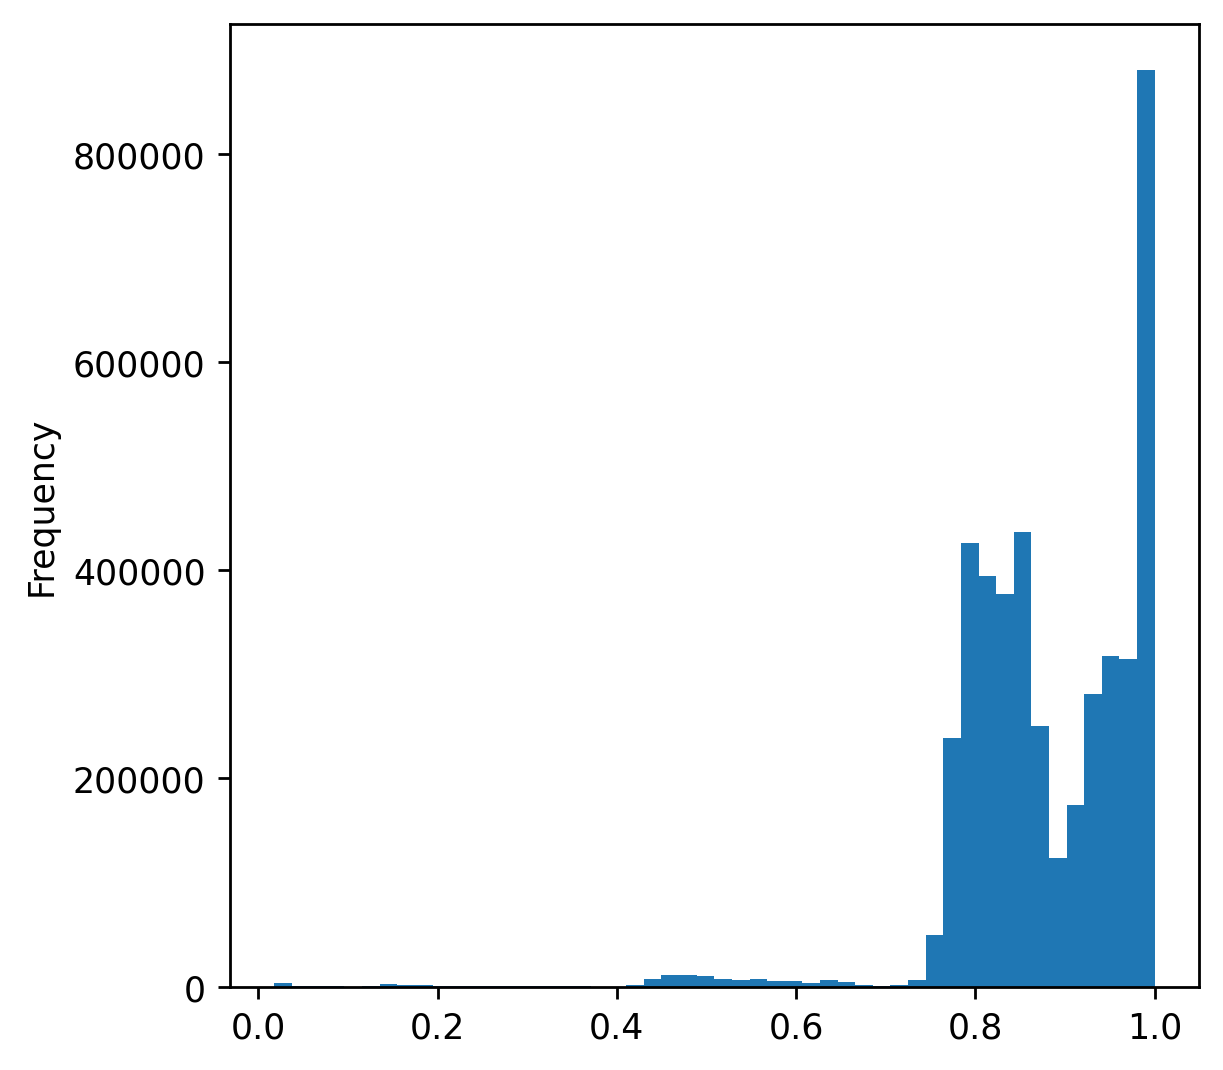
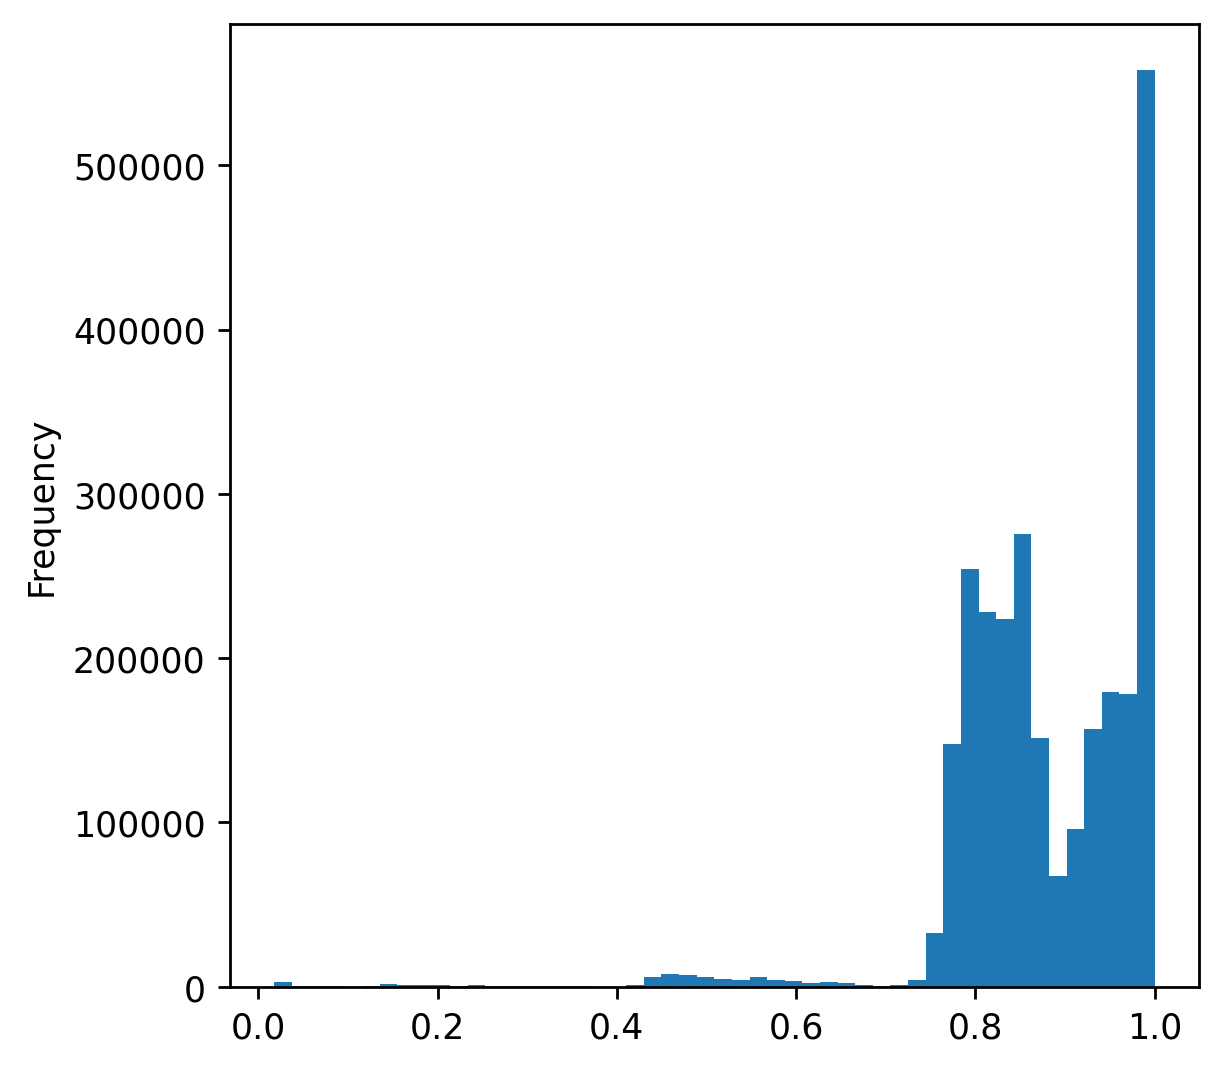
reran 16s, only runs for taxa with proteins

diff --git a/pipeline/s1.1_get_16s_blast_scores.py b/pipeline/s1.1_get_16s_blast_scores.py
@@ -88,7 +88,9 @@ if __name__ == '__main__':
     labels = pd.read_parquet('./data/taxa_thermophile_labels.parquet').set_index('taxid', drop=True)['thermophile_label']
     # filter by if we have proteins or not
     protein_distr = pd.read_csv('./data/metrics/s0.3_protein_per_data_distr.csv')
+    init_label_size = len(labels)
     labels = labels.loc[labels.index[labels.index.isin(protein_distr['taxid'].values)]]
+    logger.info(f"Filtered taxa from {init_label_size} to {len(labels)} by protein presence")
 
     # get the taxa indexes of themophiles and mesophiles
     thermo_indexes = list(labels[labels == True].index)
